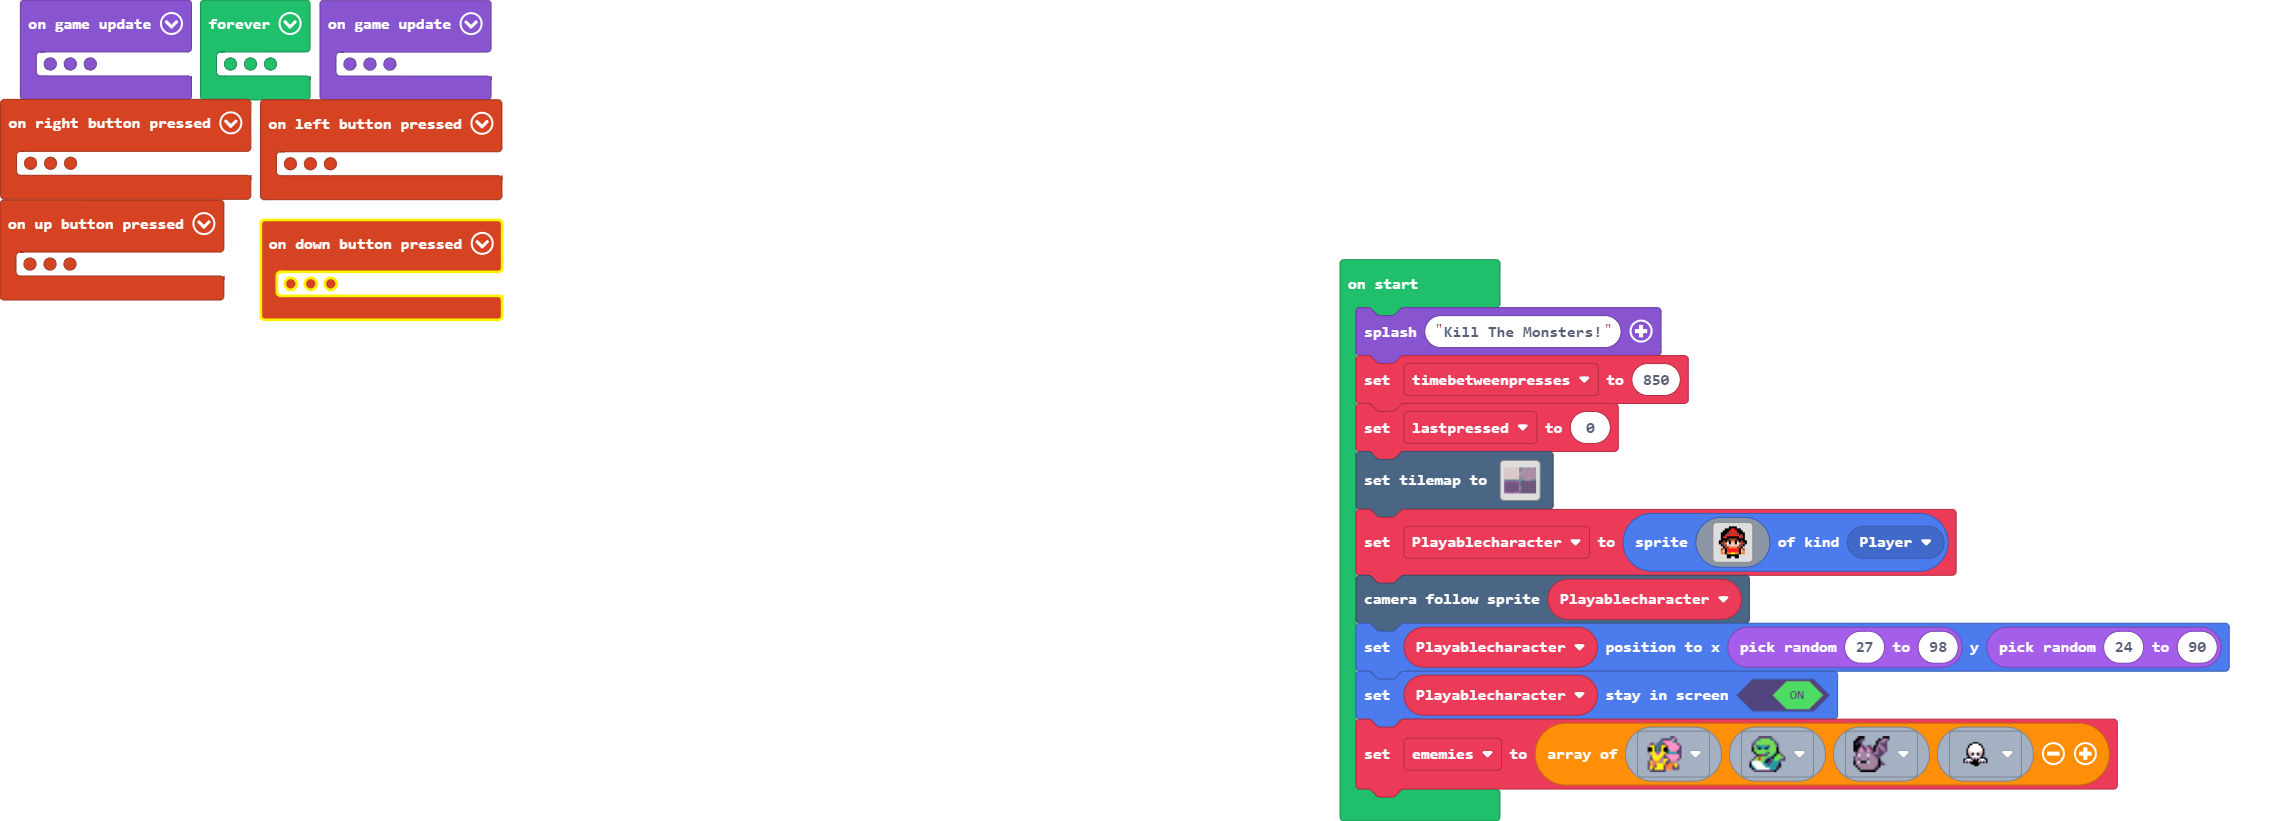
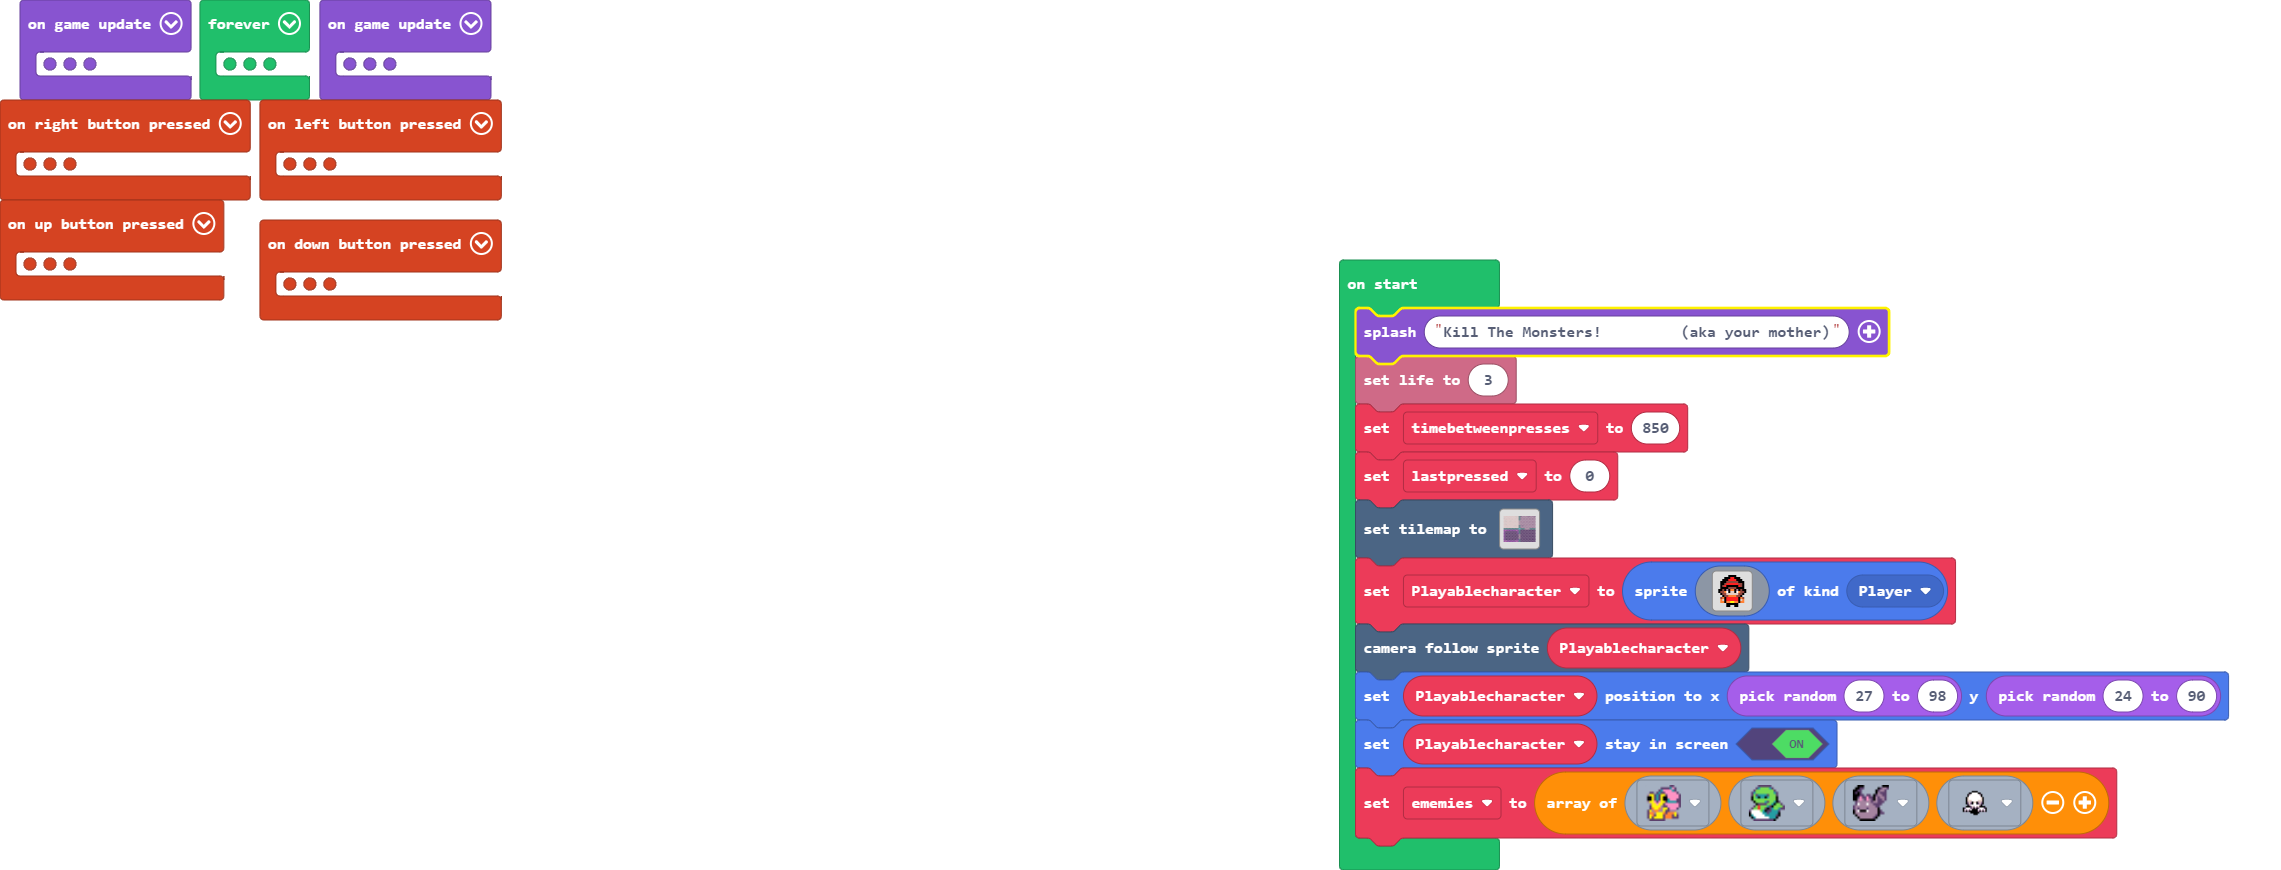
Update main.blocks, main.ts

Changed region(s): [[0.5914, 0.2741, 0.9961, 0.9744], [0.0, 0.0, 0.2179, 0.3959]]

diff --git a/main.ts b/main.ts
@@ -316,7 +316,8 @@ let facingDown = false
 let facingLeft = false
 let facingRight = false
 let Playablecharacter: Sprite = null
-game.splash("Kill The Monsters!")
+game.splash("Kill The Monsters!         (aka your mother)")
+info.setLife(3)
 let timebetweenpresses = 850
 let lastpressed = 0
 tiles.setTilemap(tilemap`level2`)
